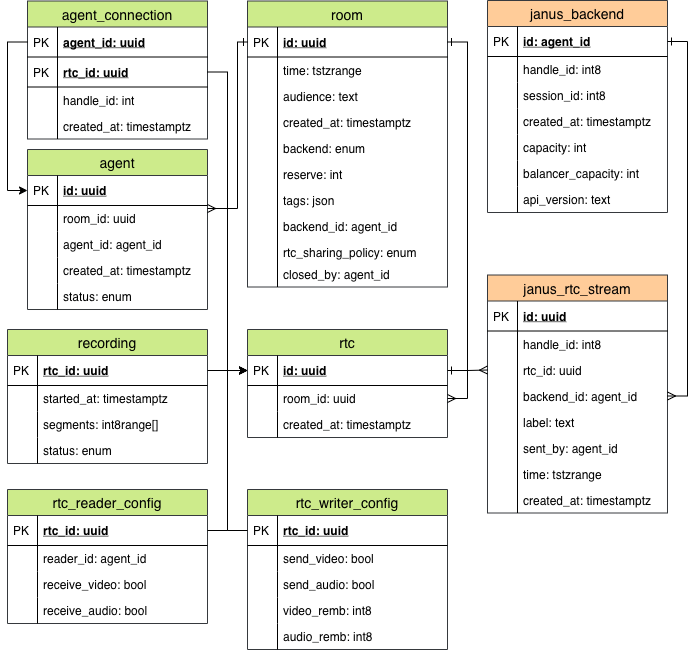
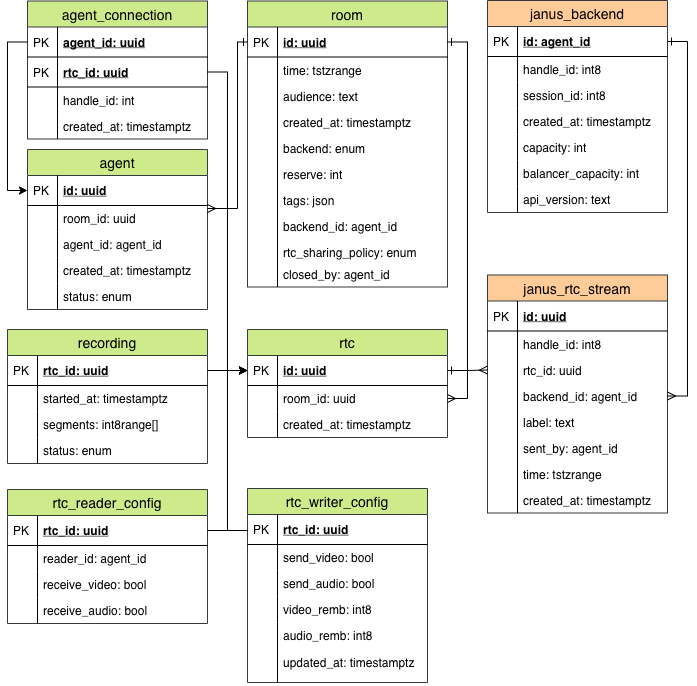
Add updated_at to writer_config (#288)

diff --git a/src/app/endpoint/agent_writer_config.rs b/src/app/endpoint/agent_writer_config.rs
@@ -12,6 +12,7 @@ use crate::{
 use anyhow::anyhow;
 use async_std::{stream, task};
 use async_trait::async_trait;
+use chrono::{DateTime, Utc};
 use diesel::Connection;
 use serde::{Deserialize, Serialize};
 use svc_agent::{
@@ -28,6 +29,9 @@ const MAX_STATE_CONFIGS_LEN: usize = 20;
 pub struct State {
     room_id: db::room::Id,
     configs: Vec<StateConfigItem>,
+    #[serde(with = "chrono::serde::ts_nanoseconds_option")]
+    #[serde(default)]
+    updated_at_ns: Option<DateTime<Utc>>,
 }
 
 impl State {
@@ -35,6 +39,10 @@ impl State {
         room_id: db::room::Id,
         rtc_writer_configs_with_rtcs: &[(RtcWriterConfig, Rtc)],
     ) -> State {
+        let updated_at = rtc_writer_configs_with_rtcs
+            .iter()
+            .map(|(c, _r)| c.updated_at())
+            .max();
         let configs = rtc_writer_configs_with_rtcs
             .iter()
             .map(|(rtc_writer_config, rtc)| {
@@ -55,7 +63,11 @@ impl State {
             })
             .collect::<Vec<_>>();
 
-        Self { room_id, configs }
+        Self {
+            room_id,
+            configs,
+            updated_at_ns: updated_at,
+        }
     }
 }
 
@@ -227,20 +239,21 @@ impl RequestHandler for UpdateHandler {
                             snapshot_q.execute(&conn)?;
                         }
                     }
+                    Ok(())
+                })?;
 
-                    // Retrieve state data.
-                    let rtc_writer_configs_with_rtcs =
-                        db::rtc_writer_config::ListWithRtcQuery::new(room_id).execute(&conn)?;
-                    // Find backend and send updates to it if present.
-                    let maybe_backend = match &backend_id {
-                        None => None,
-                        Some(backend_id) => db::janus_backend::FindQuery::new()
-                            .id(backend_id)
-                            .execute(&conn)?,
-                    };
+                // Retrieve state data.
+                let rtc_writer_configs_with_rtcs =
+                    db::rtc_writer_config::ListWithRtcQuery::new(room_id).execute(&conn)?;
+                // Find backend and send updates to it if present.
+                let maybe_backend = match &backend_id {
+                    None => None,
+                    Some(backend_id) => db::janus_backend::FindQuery::new()
+                        .id(backend_id)
+                        .execute(&conn)?,
+                };
 
-                    Ok::<_, AppError>((rtc_writer_configs_with_rtcs, maybe_backend))
-                })
+                Ok::<_, AppError>((rtc_writer_configs_with_rtcs, maybe_backend))
             }
         })
         .await?;
@@ -435,6 +448,7 @@ mod tests {
 
             let payload = State {
                 room_id: room.id(),
+                updated_at_ns: Some(Utc::now()),
                 configs: vec![
                     StateConfigItem {
                         agent_id: agent2.agent_id().to_owned(),
@@ -526,6 +540,7 @@ mod tests {
             // Make one more agent_writer_config.update request.
             let payload = State {
                 room_id: room.id(),
+                updated_at_ns: Some(Utc::now()),
                 configs: vec![
                     StateConfigItem {
                         agent_id: agent4.agent_id().to_owned(),
@@ -650,6 +665,7 @@ mod tests {
             let mut context = TestContext::new(db, TestAuthz::new());
 
             let payload = State {
+                updated_at_ns: Some(Utc::now()),
                 room_id: room.id(),
                 configs: vec![],
             };
@@ -687,6 +703,7 @@ mod tests {
                 .collect::<Vec<_>>();
 
             let payload = State {
+                updated_at_ns: Some(Utc::now()),
                 room_id: db::room::Id::random(),
                 configs,
             };
@@ -719,6 +736,7 @@ mod tests {
             let mut context = TestContext::new(db, TestAuthz::new());
 
             let payload = State {
+                updated_at_ns: Some(Utc::now()),
                 room_id: room.id(),
                 configs: vec![],
             };
@@ -763,6 +781,7 @@ mod tests {
             let mut context = TestContext::new(db, TestAuthz::new());
 
             let payload = State {
+                updated_at_ns: Some(Utc::now()),
                 room_id: room.id(),
                 configs: vec![],
             };
@@ -804,6 +823,7 @@ mod tests {
             let mut context = TestContext::new(db, TestAuthz::new());
 
             let payload = State {
+                updated_at_ns: Some(Utc::now()),
                 room_id: room.id(),
                 configs: vec![],
             };
@@ -829,6 +849,7 @@ mod tests {
             let mut context = TestContext::new(db, TestAuthz::new());
 
             let payload = State {
+                updated_at_ns: Some(Utc::now()),
                 room_id: db::room::Id::random(),
                 configs: vec![],
             };

diff --git a/src/db/rtc_writer_config.rs b/src/db/rtc_writer_config.rs
@@ -1,3 +1,4 @@
+use chrono::{DateTime, Utc};
 use diesel::{pg::PgConnection, result::Error};
 use svc_agent::AgentId;
 
@@ -15,6 +16,7 @@ type AllColumns = (
     rtc_writer_config::send_audio,
     rtc_writer_config::video_remb,
     rtc_writer_config::send_audio_updated_by,
+    rtc_writer_config::updated_at,
 );
 
 const ALL_COLUMNS: AllColumns = (
@@ -23,6 +25,7 @@ const ALL_COLUMNS: AllColumns = (
     rtc_writer_config::send_audio,
     rtc_writer_config::video_remb,
     rtc_writer_config::send_audio_updated_by,
+    rtc_writer_config::updated_at,
 );
 
 ////////////////////////////////////////////////////////////////////////////////
@@ -37,6 +40,7 @@ pub struct Object {
     send_audio: bool,
     video_remb: Option<i64>,
     send_audio_updated_by: Option<AgentId>,
+    updated_at: DateTime<Utc>,
 }
 
 impl Object {
@@ -54,6 +58,11 @@ impl Object {
 
     pub fn send_audio_updated_by(&self) -> Option<&AgentId> {
         self.send_audio_updated_by.as_ref()
+    }
+
+    /// Get a reference to the object's updated at.
+    pub fn updated_at(&self) -> DateTime<Utc> {
+        self.updated_at
     }
 }
 

diff --git a/src/schema.rs b/src/schema.rs
@@ -134,6 +134,7 @@ table! {
         send_audio -> Bool,
         video_remb -> Nullable<Int8>,
         send_audio_updated_by -> Nullable<Agent_id>,
+        updated_at -> Timestamptz,
     }
 }
 
